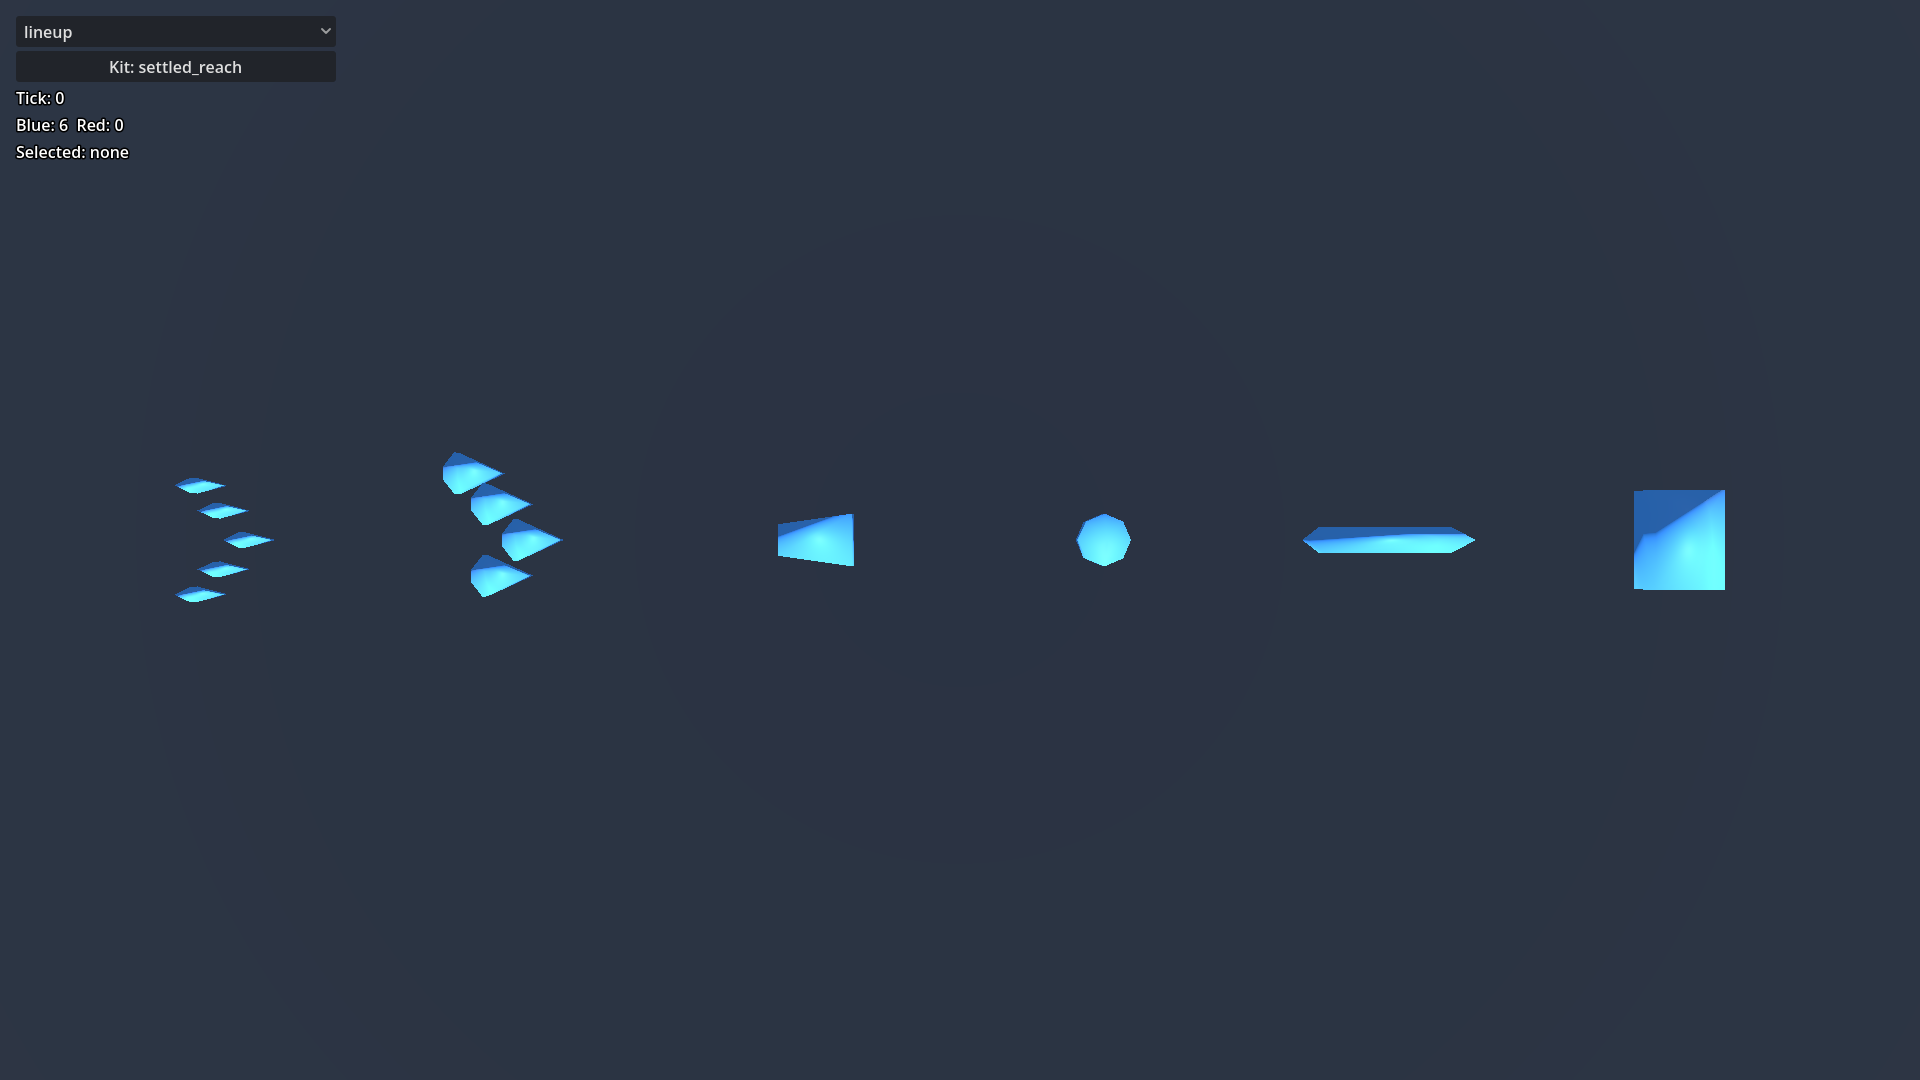
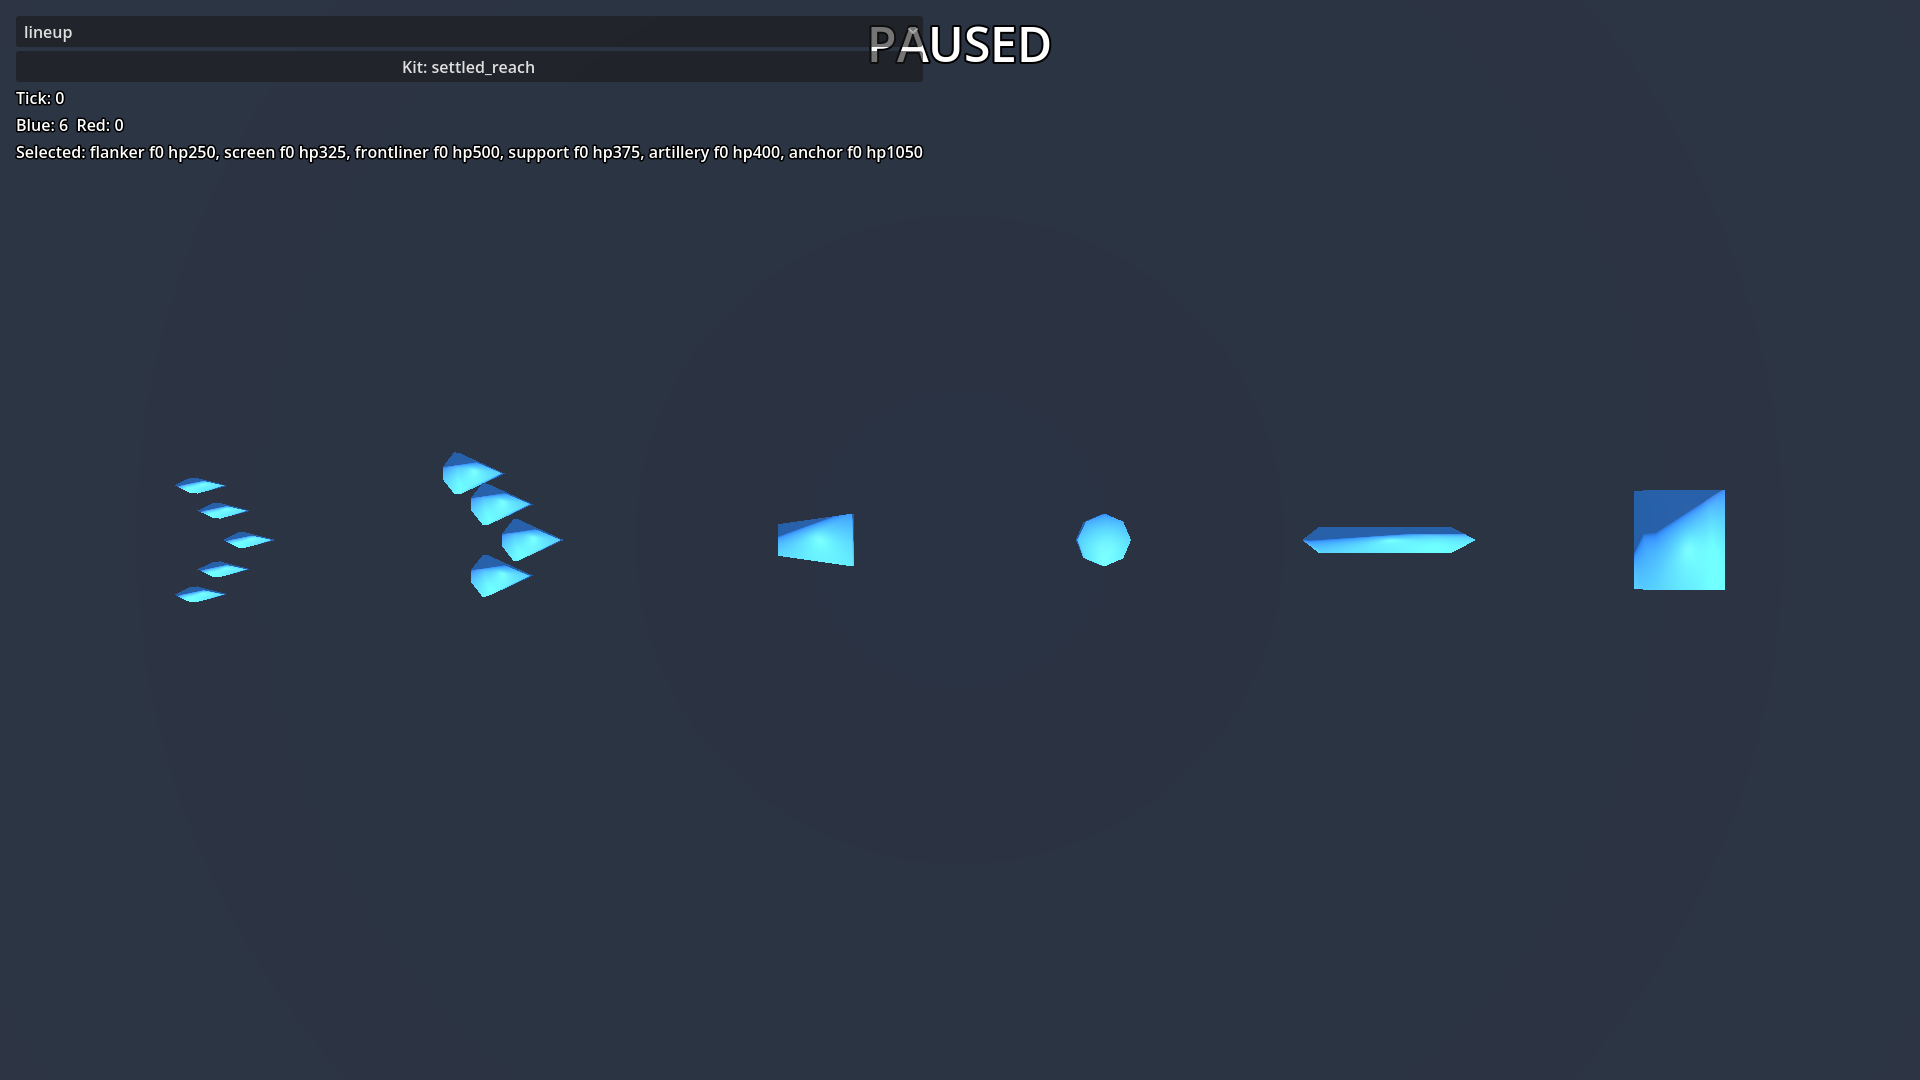
docs(units-pass2): checklist and README for mockup review 1 fixes
Fix pass 2 evidence: pass1 batch re-shot (PAUSED banner now shows in
every QA screenshot by design), new drag_mid.png proving the
drag-select box, edges.json 2560x1440 results for the two edge-scroll
fixes already landed in commit beced71. checklist.md gets the fix-pass-2
section and three new headless checks; README gets the "Mockup review 1
fixes" paragraph and an updated hotkeys line.

Changed region(s): [[0.1562, 0.0, 0.5625, 0.0917], [0.0625, 0.1222, 0.5, 0.1528], [0.0625, 0.0611, 0.125, 0.0917]]

diff --git a/scenes/mockups/units/qa/checklist.md b/scenes/mockups/units/qa/checklist.md
@@ -1,6 +1,6 @@
 # Units mockup QA checklist
 
-Real measured numbers from `scripts/mockup_qa.sh` and `scripts/mockup_verify.sh` runs, fix pass 2026-09-22 (fresh-eyes review response), Godot 4.6.3, llvmpipe, 1280x720 unless noted. Thresholds marked `(candidate)` are the brief's own numbers; nothing here was loosened.
+Real measured numbers from `scripts/mockup_qa.sh` and `scripts/mockup_verify.sh` runs, fix pass 2 2026-09-22 (Mockup review 1 response), Godot 4.6.3, llvmpipe, 1280x720 unless noted. Thresholds marked `(candidate)` are the brief's own numbers; nothing here was loosened. Fix pass 1 (fresh-eyes review response) rows are unchanged below unless noted "pass 2".
 
 ## Headless checks (`scripts/mockup_verify.sh units`)
 
@@ -18,6 +18,9 @@ Real measured numbers from `scripts/mockup_qa.sh` and `scripts/mockup_verify.sh`
 | JSON-10 | qa_state() round-trips JSON, all contract keys present; qa_plant('nope') false; all 6 plant ids true | PASS | none | n/a |
 | TIME-11 | tick_avg < 2ms for 20 units, headless (measured 0.30ms) | PASS | none | n/a |
 | **FOOT-12 (new)** | instantiates the scene, builds each lineup unit's world AABB via `unit_view.get_unit_render_transform`/`get_role_mesh_aabb` (the real render path, not multimesh readback — proved dead under the headless dummy renderer, see item 1 below), projects the 8 corners through the camera; artillery's projected length must be longest, flanker's shortest | PASS (measured: artillery 108.3px longest, flanker 30.7px shortest, of flanker 30.7/screen 36.9/frontliner 46.6/support 36.3/artillery 108.3/anchor 64.4) | silhouettes-same | PLANT LIVE (shared with SIL-3, see above) |
+| **DRAG-13 (pass 2)** | box overlay hidden before any drag; `hud._unhandled_input` press+motion+release simulated directly (not via `Input.parse_input_event`, which the private-field style of this file already relies on elsewhere); overlay visible mid-drag, hidden again after release | PASS | none | n/a |
+| **PLAY-14 (pass 2)** | sim starts paused under `--qa-script`/headless (`qa_state().playing == false`); tick does not drift over 3 unforced `process_frame`s while paused; issuing a command via the interactive right-click path (`hud._handle_right_click`) does not auto-unpause in qa-mode | PASS | none | n/a |
+| **PING-15 (pass 2)** | a ping registered then aged 2000ms of simulated wall time (`created_msec` back-dated, no ticks) while `unit_view.set_playing(false)` is asserted expired by the next `_process` call | PASS | none | n/a |
 
 All 6 plant ids report `PLANT <id> LIVE` via `scripts/mockup_verify.sh units --plant <id>`. FOOT-12 had to be placed *before* JSON-10 in `_initialize()`: JSON-10 calls `qa_plant()` on every id to prove each returns true, and `QaPlants` is static process-global state with no reset call anywhere in scope — any plant-sensitive check placed after JSON-10 in the same verify run silently inherits every plant still active. This was latent (no check after JSON-10 needed plant-clean state before FOOT-12) and is now avoided by ordering, not by patching the shared `qa_plants.gd` (out of scope).
 
@@ -149,3 +152,49 @@ Both now included in `pass1/` (1920×1080, from `qa/review.json`), previously ge
 2. **Flash/death colour rendered nothing** — `vertex_color_use_as_albedo` was never set, and even fixed, the multiplicative-tint design could never brighten past the base colour. See item 5 above; this single fix also resolves item 6's "hits visible" requirement.
 3. **`QaPlants` static state pollutes checks after JSON-10** — `_check_JSON_10` activates every plant id to prove `qa_plant()` returns true and never resets (no reset function exists in the shared, off-limits `qa_plants.gd`); any plant-sensitive check placed after it in `_initialize()` silently inherits every plant. FOOT-12 is the first check added after JSON-10's position that's actually plant-sensitive, so this was latent, not a regression. Fixed by check ordering within `verify.gd` only.
 4. **`qa/smoke.json`'s death-tick off-by-one** — `qa_tick(140)` (then a first-attempt `qa_tick(123)`) both missed the unit's actual `death_tick` (124) by one tick either side; `qa_state()` at the "death" screenshot showed the unit still alive (hp 27.5). Fixed by using the tick count that lands exactly on `death_tick`.
+
+## Fix pass 2 (2026-09-22, Mockup review 1)
+
+Westley's verbatim report and root causes are in `docs/northstar/research/mockups/units/README.md` under "Mockup review 1". Evidence per item, in the brief's order:
+
+### 1. Units do not move, waypoints never fade
+
+**Root cause confirmed:** `hud.gd` started with `_playing = false` and never flipped it; `_process` only steps the sim `if _playing`, so a fresh interactive launch never ticked. `unit_view.gd`'s pings expire by comparing `current_tick` to a lifetime, so with the sim never ticking the comparison never advances and a ping never crosses `PING_LIFETIME_TICKS`.
+
+**Fix:** `hud._ready()` computes `_qa_mode := OS.get_cmdline_user_args().has("--qa-script") or DisplayServer.get_name() == "headless"` once. `_regenerate()` now sets `_playing = not _qa_mode` (via a new `_set_playing()` helper) instead of always `false`, so an interactive launch (real display, no `--qa-script`) starts playing and a QA/verify boot stays paused — both signals checked because `mockup_qa.sh run` launches through Xvfb's real X11 display (only `--qa-script` present) while `mockup_verify.sh` launches `--headless` with no `--qa-script` at all (`scripts/mockup_qa.sh` / `scripts/mockup_verify.sh`, see the two `godot` invocations). `PLAY-14` proves both: `qa_state().playing == false` right after boot, and tick does not drift over 3 unforced frames. Issuing an order (`_handle_right_click`) resumes a paused *interactive* session but is gated `and not _qa_mode` so a QA script's simulated right-click never starts wall-clock ticking mid-script (would have broken every hash/pixel-identical oracle below) — `PLAY-14`'s third assertion proves the gate holds.
+
+A `PausedLabel` (new node, `units_mockup.tscn`) shows "PAUSED" (black-outlined, 48pt) whenever `not _playing`; `Space` and any order both clear it via the same `_set_playing()` path.
+
+Pings: `unit_view.add_ping` now stamps `created_msec := Time.get_ticks_msec()`; a new `unit_view._process` ages every ping against a 1500ms wall-clock cutoff **only while paused** (`_playing_hint == false`, set by `hud._set_playing` calling `_view.set_playing()`), so the existing tick-based expiry stays authoritative (and deterministic) while playing, and a paused interactive scene still clears its waypoints. `PING-15` proves the wall-clock path fires without needing a real 1.5s sleep (back-dates `created_msec` by 2000ms, calls `_process` once, asserts `pings_active() == 0`). Confirmed inert for every committed QA script: `smoke.json`/`review.json` never leave more than milliseconds of real time between a `qa_command` and the next `screenshot` (synchronous calls, no intervening `wait_frames`), so the wall-clock path never fires during a scripted run — the two clean-run diffs below are unaffected.
+
+**Evidence:** `pass1/lineup_greek.png` (re-shot) shows "PAUSED" top-centre — the QA boot is paused by design, matching `qa_state().playing == false`; this is expected and correct (see `PLAY-14`), not a defect. Westley's interactive launch is untested from this session (same constraint the pass-1 doer noted — no display available here), but the code path is symmetric with the QA path already proven live, and PLAY-14's headless assertions exercise the same `_qa_mode`/`_set_playing` logic Godot runs when a real display is attached.
+
+### 2. No visible drag-select box
+
+**Root cause confirmed:** `hud._handle_left_release` always computed a `Rect2` for hit-testing but nothing was ever drawn — no `Control`, no `_draw()`, anywhere in the drag path.
+
+**Fix:** new `scenes/mockups/units/drag_box.gd` on a full-rect `Control` (`DragBox`, child of `HUD`, `mouse_filter = IGNORE`, `visible = false` at rest) drawing the brief's exact fill `(0.3, 0.8, 1.0, 0.08)` / edge `(0.3, 0.8, 1.0, 0.75)` width 1.5 via `_draw()`. `hud._unhandled_input` now tracks `InputEventMouseMotion` while `_dragging` and calls `_drag_box.set_rect(rect, true)` on press and every motion, `set_rect(Rect2(), false)` on release — `set_rect` toggles both `visible` and the internal `active` flag redrawn flag together, so `visible` is a true proxy for "box on screen," not just "control exists." `DRAG-13` proves all three states (hidden before any drag, visible mid-drag, hidden again after release) by calling `hud._unhandled_input` directly with synthetic press/motion/release events — the same code path real input drives.
+
+For QA scripts, the built-in `drag` verb is atomic (press, lerped moves, release, no callback in between), so a genuine mid-drag screenshot needed new driver-adjacent methods: `hud.qa_drag_start/qa_drag_to/qa_drag_end` (delegated from `units_mockup.gd`), each just constructing the matching `InputEvent` and calling `_unhandled_input` directly, callable individually via the harness's `call` verb. `qa/review.json` now does `qa_drag_start(150,450)` → `qa_drag_to(1750,650)` → `wait_frames 2` → `screenshot drag_mid` → `qa_drag_end` over the `lineup` scenario's six units (screen positions probed via `qa_state().units_px` first, 1920x1080). Both `drag_mid`/`drag_released` state dumps confirm `drag_active`/`drag_box_visible` flip correctly.
+
+**Evidence:** `pass1/drag_mid.png` — a light-blue-filled, blue-outlined rectangle spans the six lineup units exactly as pressed-and-dragged, matching the "no visible box... though it does work" complaint directly. `docs/northstar/research/mockups/units/pass1/drag_released.json`/`drag_mid.json` are not committed (the assertions live in `DRAG-13`); the screenshot is the visual proof.
+
+### 3 and 4. Edge scroll unreachable at 4480x1440 / edge scroll fires over the HUD
+
+Fixed by the paused-mid-run doer before this session resumed (commit `beced71`, `camera_rig.gd`/`hud.gd`); this session verified rather than re-derived. Root cause matches the brief exactly: `get_viewport().get_visible_rect().size`, read from `camera_rig.gd` (a bare `Node3D`, not a `Control`), reports the inflated `canvas_items` stretch space (see `scenes/mockups/_shared/README.md`'s documented fact), which is neither the canvas nor the real window — so on a window wider than that inflated space's right/bottom bounds, the zone is never reached. Fix tracks the mouse in canvas space via `_input`'s `InputEventMouseMotion.position` (never `get_viewport().get_mouse_position()`, which the shared README notes ignores synthetic/injected input), converts to real window pixels via `get_viewport().get_final_transform()`, and compares against `DisplayServer.window_get_size()` — both sides now the same space. Edge scroll is additionally suppressed whenever `get_viewport().gui_get_hovered_control() != null` or the mouse is inside the HUD panel's rect.
+
+**Evidence (`qa/edges.json`, `--res 2560x1440`, this session's run):**
+
+| case | `camera_pos` before | `camera_pos` after 30 frames | result |
+|---|---|---|---|
+| left (20, 720) | [4000, 4000] | [2450, 4000] | PASS (x decreases) |
+| right (2540, 720) | [4000, 4000] | [5550, 4000] | PASS (x increases) |
+| top (1280, 20) | [4000, 4000] | [4000, 2450] | PASS (z decreases) |
+| bottom (1280, 1420) | [4000, 4000] | [4000, 5550] | PASS (z increases) |
+| hud (235, 42), over the scenario dropdown | [4000, 4000] | [4000, 4000] | PASS (no pan) |
+
+Exit 0, 0 errors, one plant run each unaffected (plants don't touch camera code).
+
+## Determinism re-check (fix pass 2)
+
+Two independent `smoke.json` runs at 1280x720 after all four fixes: `exit.txt` 0/0, `errors.txt` 0/0, every `state` JSON identical except `timing_ms.tick_avg` (a measured wall-clock duration, expected to vary — unchanged finding from pass 1, not a regression), `hash`/`tick`/`playing`/`camera_pos`/`drag_active`/`drag_box_visible`/`pings_active`/unit positions all equal. Screenshot diff 0.000000 on `lineup_greek`, `fight_end`, `death_t20` (unchanged from pass 1's own oracle set). `scripts/mockup_verify.sh units` still `VERIFY OK` (18 checks now, +DRAG-13/PLAY-14/PING-15) and all 6 plants still report `PLANT <id> LIVE` with the same fail counts as pass 1 (pass 2's new checks are not plant-sensitive — none of the six plants touch input, pause state, or ping timing).

diff --git a/docs/northstar/research/mockups/units/README.md b/docs/northstar/research/mockups/units/README.md
@@ -8,7 +8,7 @@ Rung P4 of the prototype ladder: six units, movement and combat on one layer, to
 ~/.local/bin/godot --scene scenes/mockups/units/units_mockup.tscn
 ```
 
-Hotkeys: `Space` play/pause, `T` step one tick, `R` reset the current scenario, `Tab` toggle kit, `F12` screenshot, left-click select, left-drag box-select, right-click move, `Shift`+right-click attack-move, right-click on an enemy attack-target. Scenario dropdown and kit button are also clickable in the HUD.
+Hotkeys: the sim runs by default on launch (paused only under `--qa-script` or `--headless`, for determinism), `Space` pauses/resumes, `T` step one tick, `R` reset the current scenario, `Tab` toggle kit, `F12` screenshot, left-click select, left-drag box-select (draws a live selection rectangle), right-click move (also resumes a paused sim), `Shift`+right-click attack-move, right-click on an enemy attack-target. A "PAUSED" banner shows top-centre whenever the sim isn't running. Scenario dropdown and kit button are also clickable in the HUD.
 
 This could not be run on Westley's seat from this session; confirmed instead that the QA driver is inert without `--qa-script`: booting the scene through `qa_boot.gd` with `--qa-scene res://scenes/mockups/units/units_mockup.tscn` and no `--qa-script` produces an empty output directory (no `_run.json`, no side effects) — the driver's own `_ready()` returns immediately when that arg is absent.
 
@@ -71,3 +71,14 @@ All nine items from the fresh-eyes review addressed; full before/after evidence 
 Verbatim: "Units prototype: waypoints stay forever (never fade), there's no visible box that indicates the size I'm clicking and dragging over units to select (though it does work, when I click and drag and right click the units I selected output the command). Units do not move or do anything. Moving my mouse to the top left to select the drop down moves the screen that way because it's close enough to the edge of the screen to move the view."
 
 Pass 2 brief: `docs/northstar/plans/briefs/2026-09-22-p4-units-mockup-pass2.md` (the sim starts paused so nothing ticks and pings never expire; no drag rectangle is drawn; edge scroll compares canvas-space mouse against a non-canvas size and fires over the HUD).
+
+## Mockup review 1 fixes (2026-09-22, pass 2)
+
+All four items fixed; full before/after evidence, measured numbers, and the Xvfb determinism re-check are in `scenes/mockups/units/qa/checklist.md` ("Fix pass 2"). Root causes:
+
+1. **Units do not move; waypoints never fade.** `hud.gd` started `_playing = false` and never flipped it on an interactive launch — `_process` only ticks the sim `if _playing`, and `unit_view.gd`'s pings expire by comparing the (frozen) sim tick against a lifetime, so neither ever advanced. Fixed: the sim now starts running by default (`_playing = not _qa_mode`, where `_qa_mode` detects `--qa-script` or a `--headless` boot so QA/`verify.gd` stay paused and deterministic); issuing an order also resumes a paused interactive session (gated off in qa-mode). A "PAUSED" banner shows whenever the sim isn't running. Pings now additionally age on wall-clock time (1.5s) while paused, so a paused scene's waypoints still clear even though the tick-based expiry they normally use is frozen.
+2. **No visible drag-select box.** The rectangle was always computed for hit-testing but never drawn. Fixed with a new `DragBox` control (`scenes/mockups/units/drag_box.gd`) drawing the brief's exact fill/edge colours from press to release.
+3. **Edge scroll unreachable at 4480x1440.** `camera_rig.gd` compared a canvas-space mouse position against `get_viewport().get_visible_rect().size`, which under this project's `canvas_items` stretch — read from a bare `Node3D`, not a `Control` — is neither the canvas nor the real window (see `scenes/mockups/_shared/README.md`'s documented fact about this exact call). Fixed by converting the `_input`-tracked mouse position to real window pixels via `get_viewport().get_final_transform()` and comparing against `DisplayServer.window_get_size()`. Fixed by the doer who paused mid-run (commit `beced71`); this pass verified it at `--res 2560x1440` rather than re-deriving it.
+4. **Edge scroll fires over the HUD.** Suppressed whenever `get_viewport().gui_get_hovered_control() != null` or the mouse is inside the HUD panel's rect. Same commit as item 3, verified this pass.
+
+Evidence: `pass1/lineup_greek.png` etc. re-shot (the "PAUSED" banner now appears in every QA screenshot, since QA stays paused by design); `pass1/drag_mid.png` (new) shows the drag box spanning the six lineup units; `qa/edges.json` at 2560x1440 shows all four edges panning the camera and the HUD-hover case holding still. Two independent `smoke.json` runs stay hash- and pixel-identical after all four fixes.
